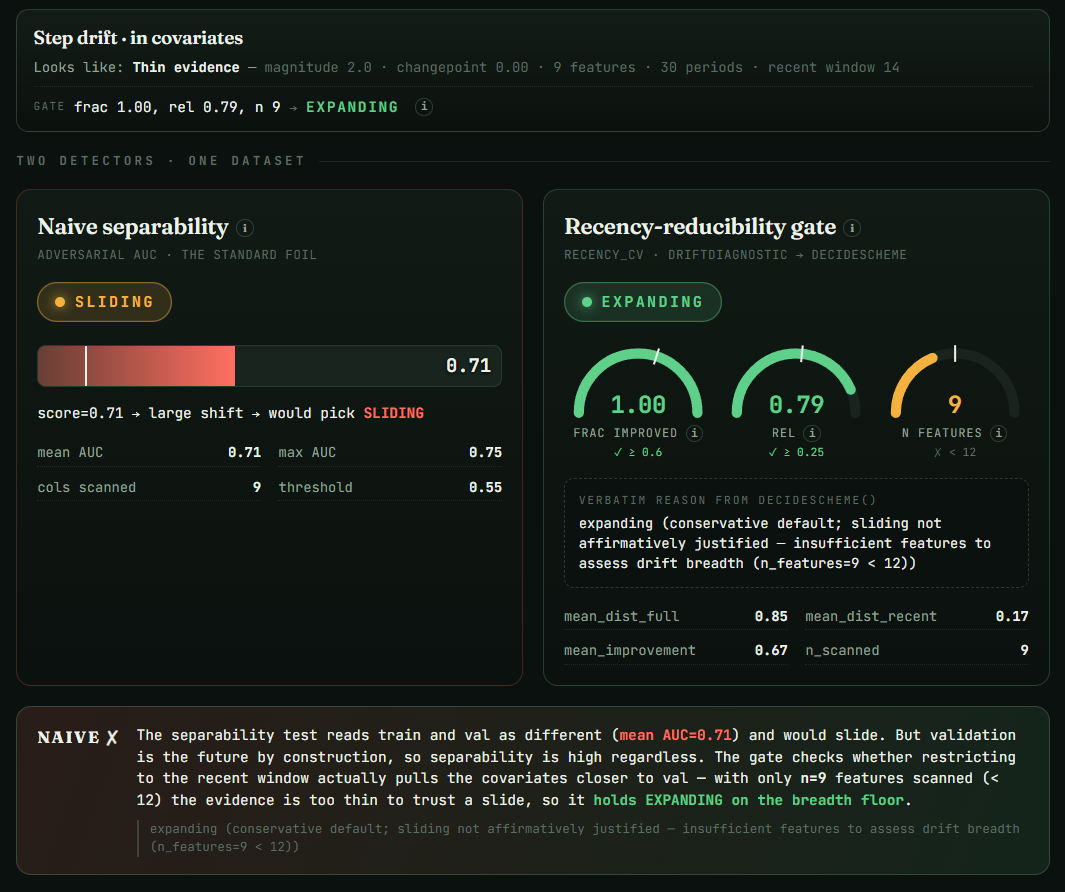
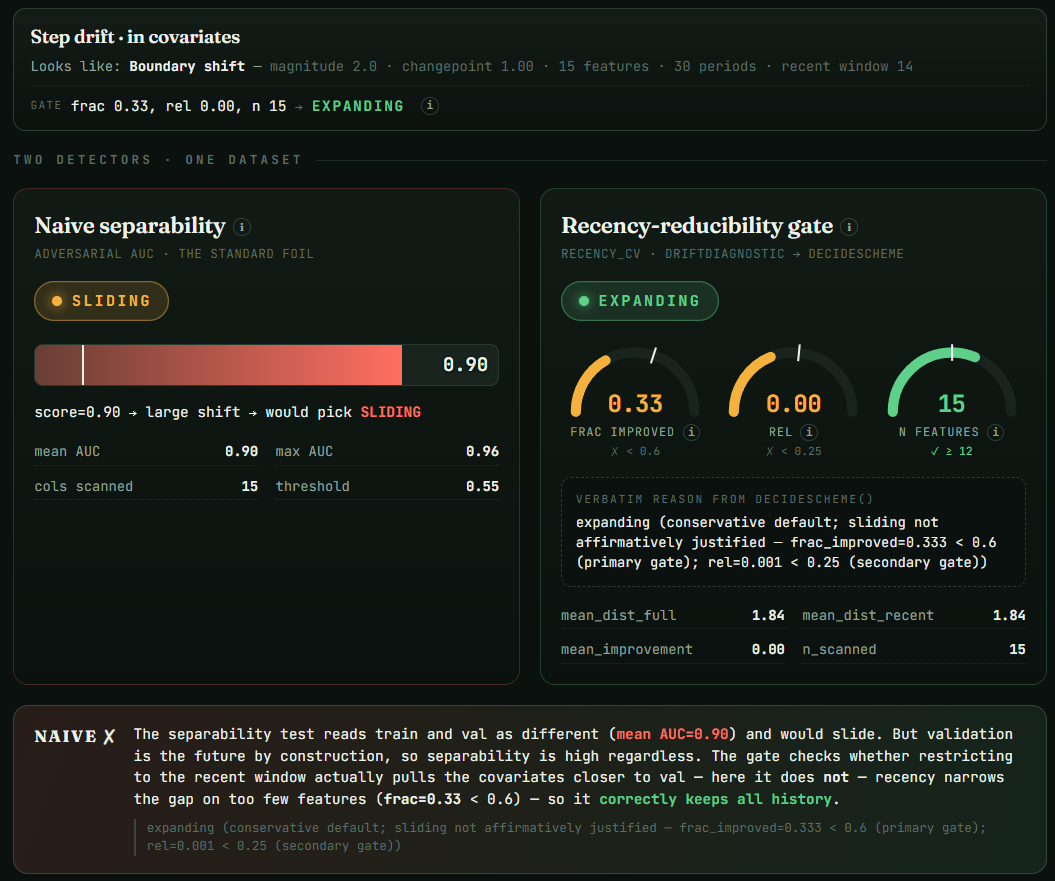
update screenshot

diff --git a/README.md b/README.md
@@ -5,13 +5,14 @@ window by detecting whether train→validation drift is *recency-reducible* — 
 training to its most recent block actually moves the covariates closer to validation — rather than
 merely whether train and validation look different.
 
-![The foil: the naive separability test says SLIDING, the gate says EXPANDING](demo/screenshot.png)
+![Boundary-shift foil: naive separability says SLIDING at AUC 0.90, the gate holds EXPANDING at frac 0.33](demo/screenshot.png)
 
-*The thin-evidence floor in action. The naive adversarial-AUC test saturates (mean AUC 0.71) and votes
-**SLIDING**, and here recency genuinely does narrow the gap — breadth (`frac_improved = 1.00`) and depth
-(`rel = 0.79`) both clear. But only **9 features** are scanned, below the `n ≥ 12` evidence floor, so that
-third, independent gate holds the verdict at **EXPANDING**: the gate won't slide on thin evidence even
-when the other two conditions pass.*
+*The foil at its sharpest, on the synthetic **boundary-shift** preset: the naive adversarial-AUC test is
+confidently wrong (mean AUC **0.90**) and votes **SLIDING**, but the shift sits at the train/validation
+boundary where the recent window can't reach it — `mean_improvement = 0.00`, so `frac_improved = 0.33`
+and `rel = 0.00` across all `n = 15` features — and the gate correctly holds **EXPANDING**. Unlike the
+thin-evidence floor, here both the breadth and depth gates fail because recency genuinely doesn't help,
+not because the scan is too thin.*
 
 **▶ Try it live:** <https://isaacpan1.github.io/Recency-Reducibility-Gate-Agent/demo/index.html>
 